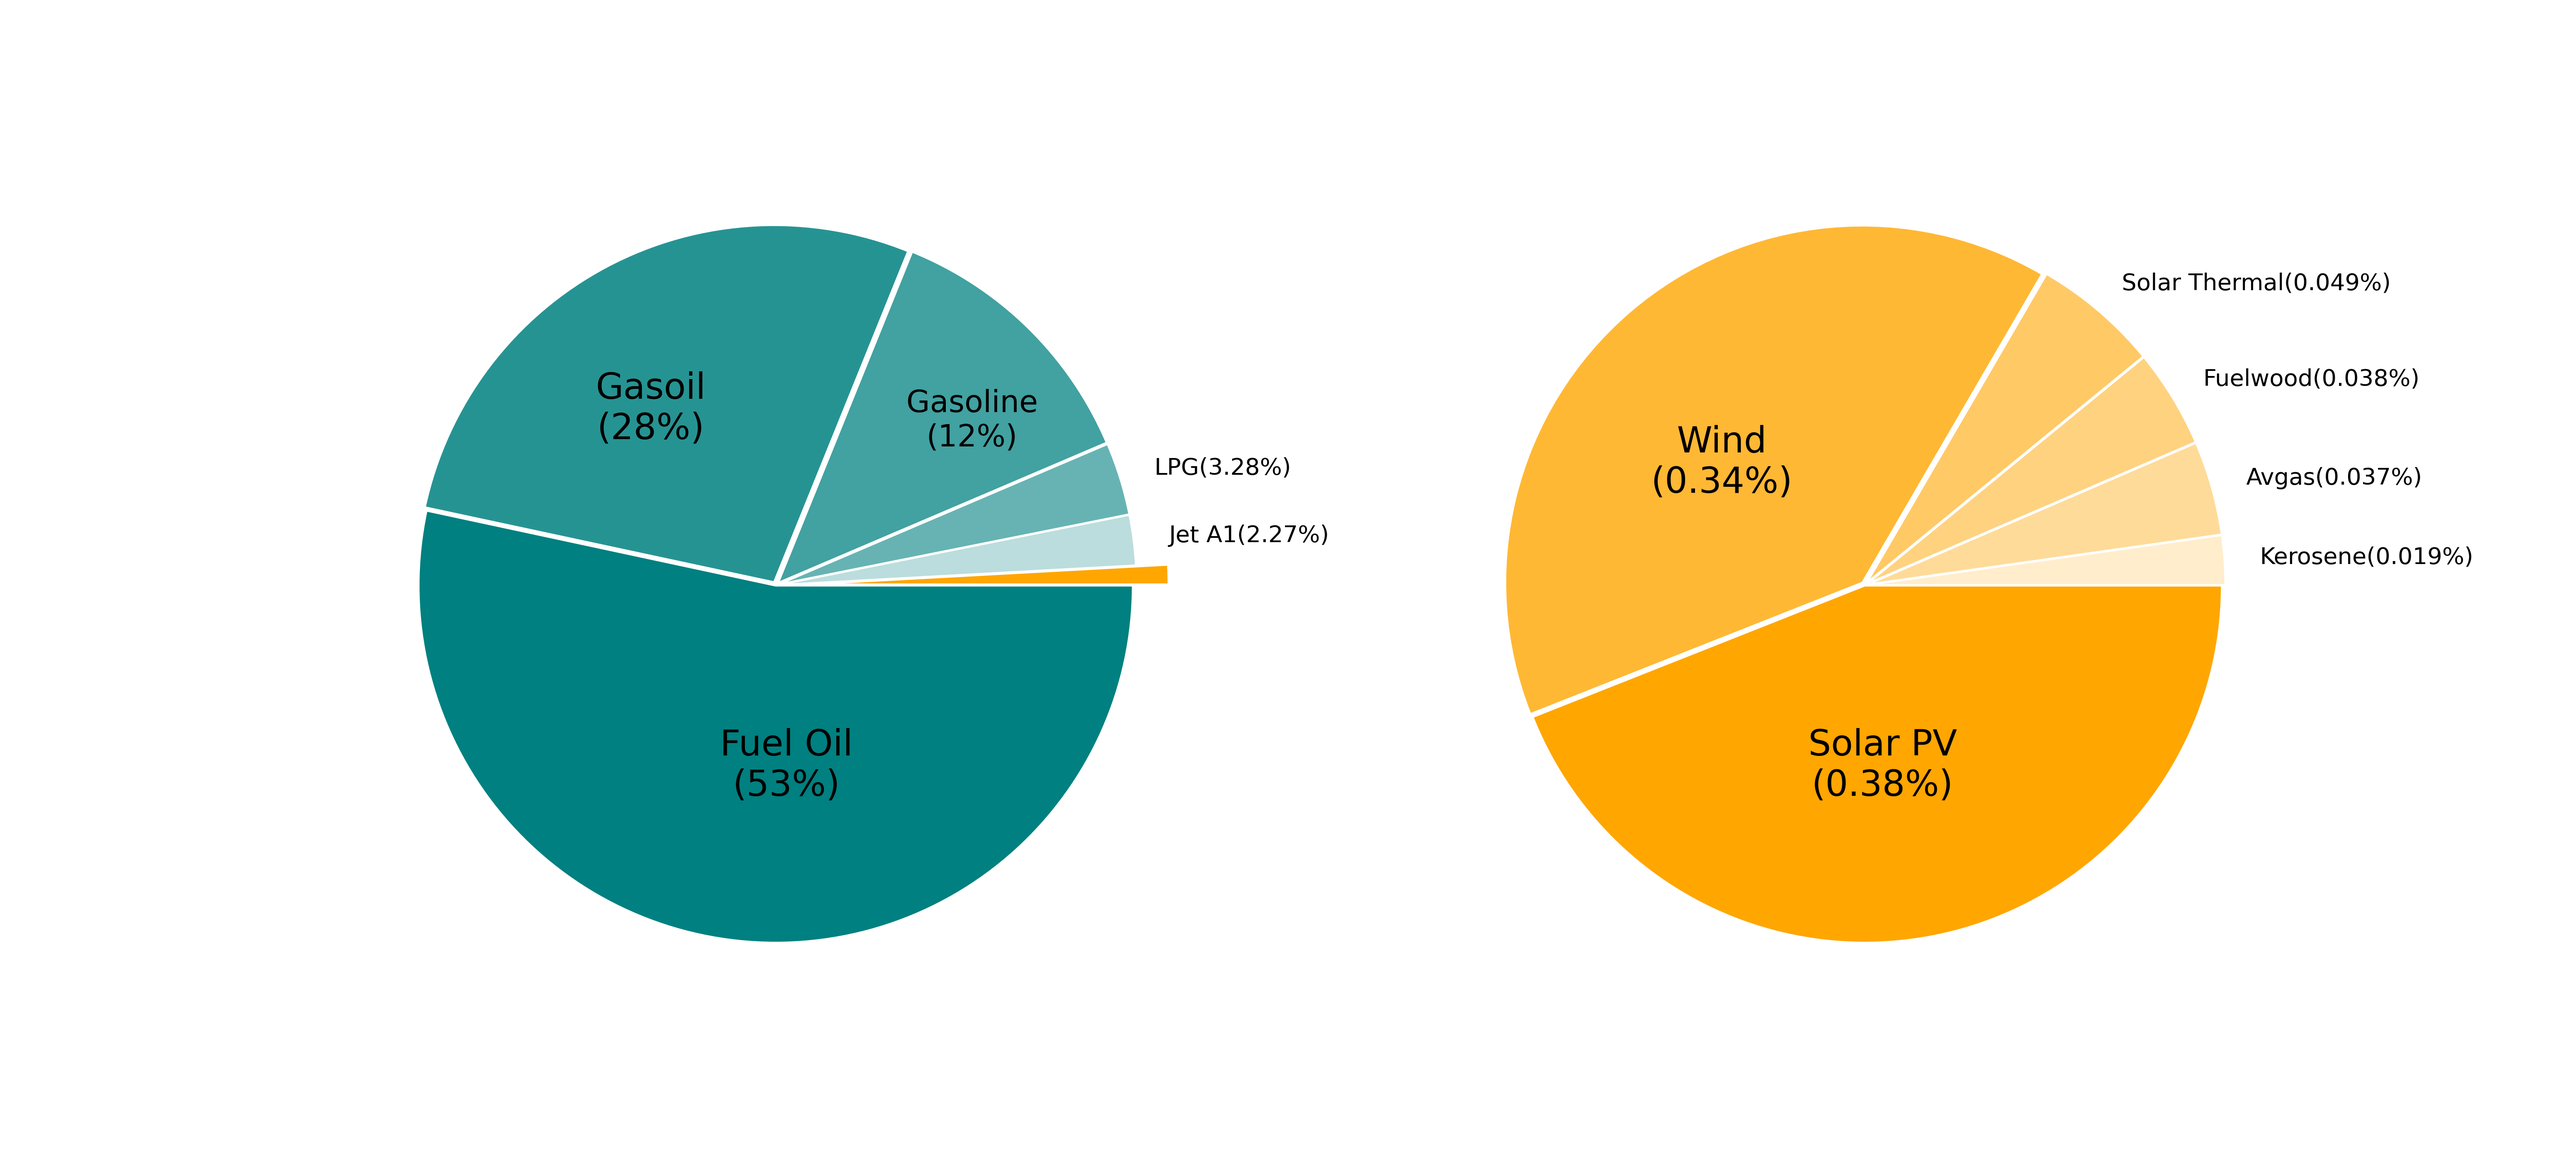
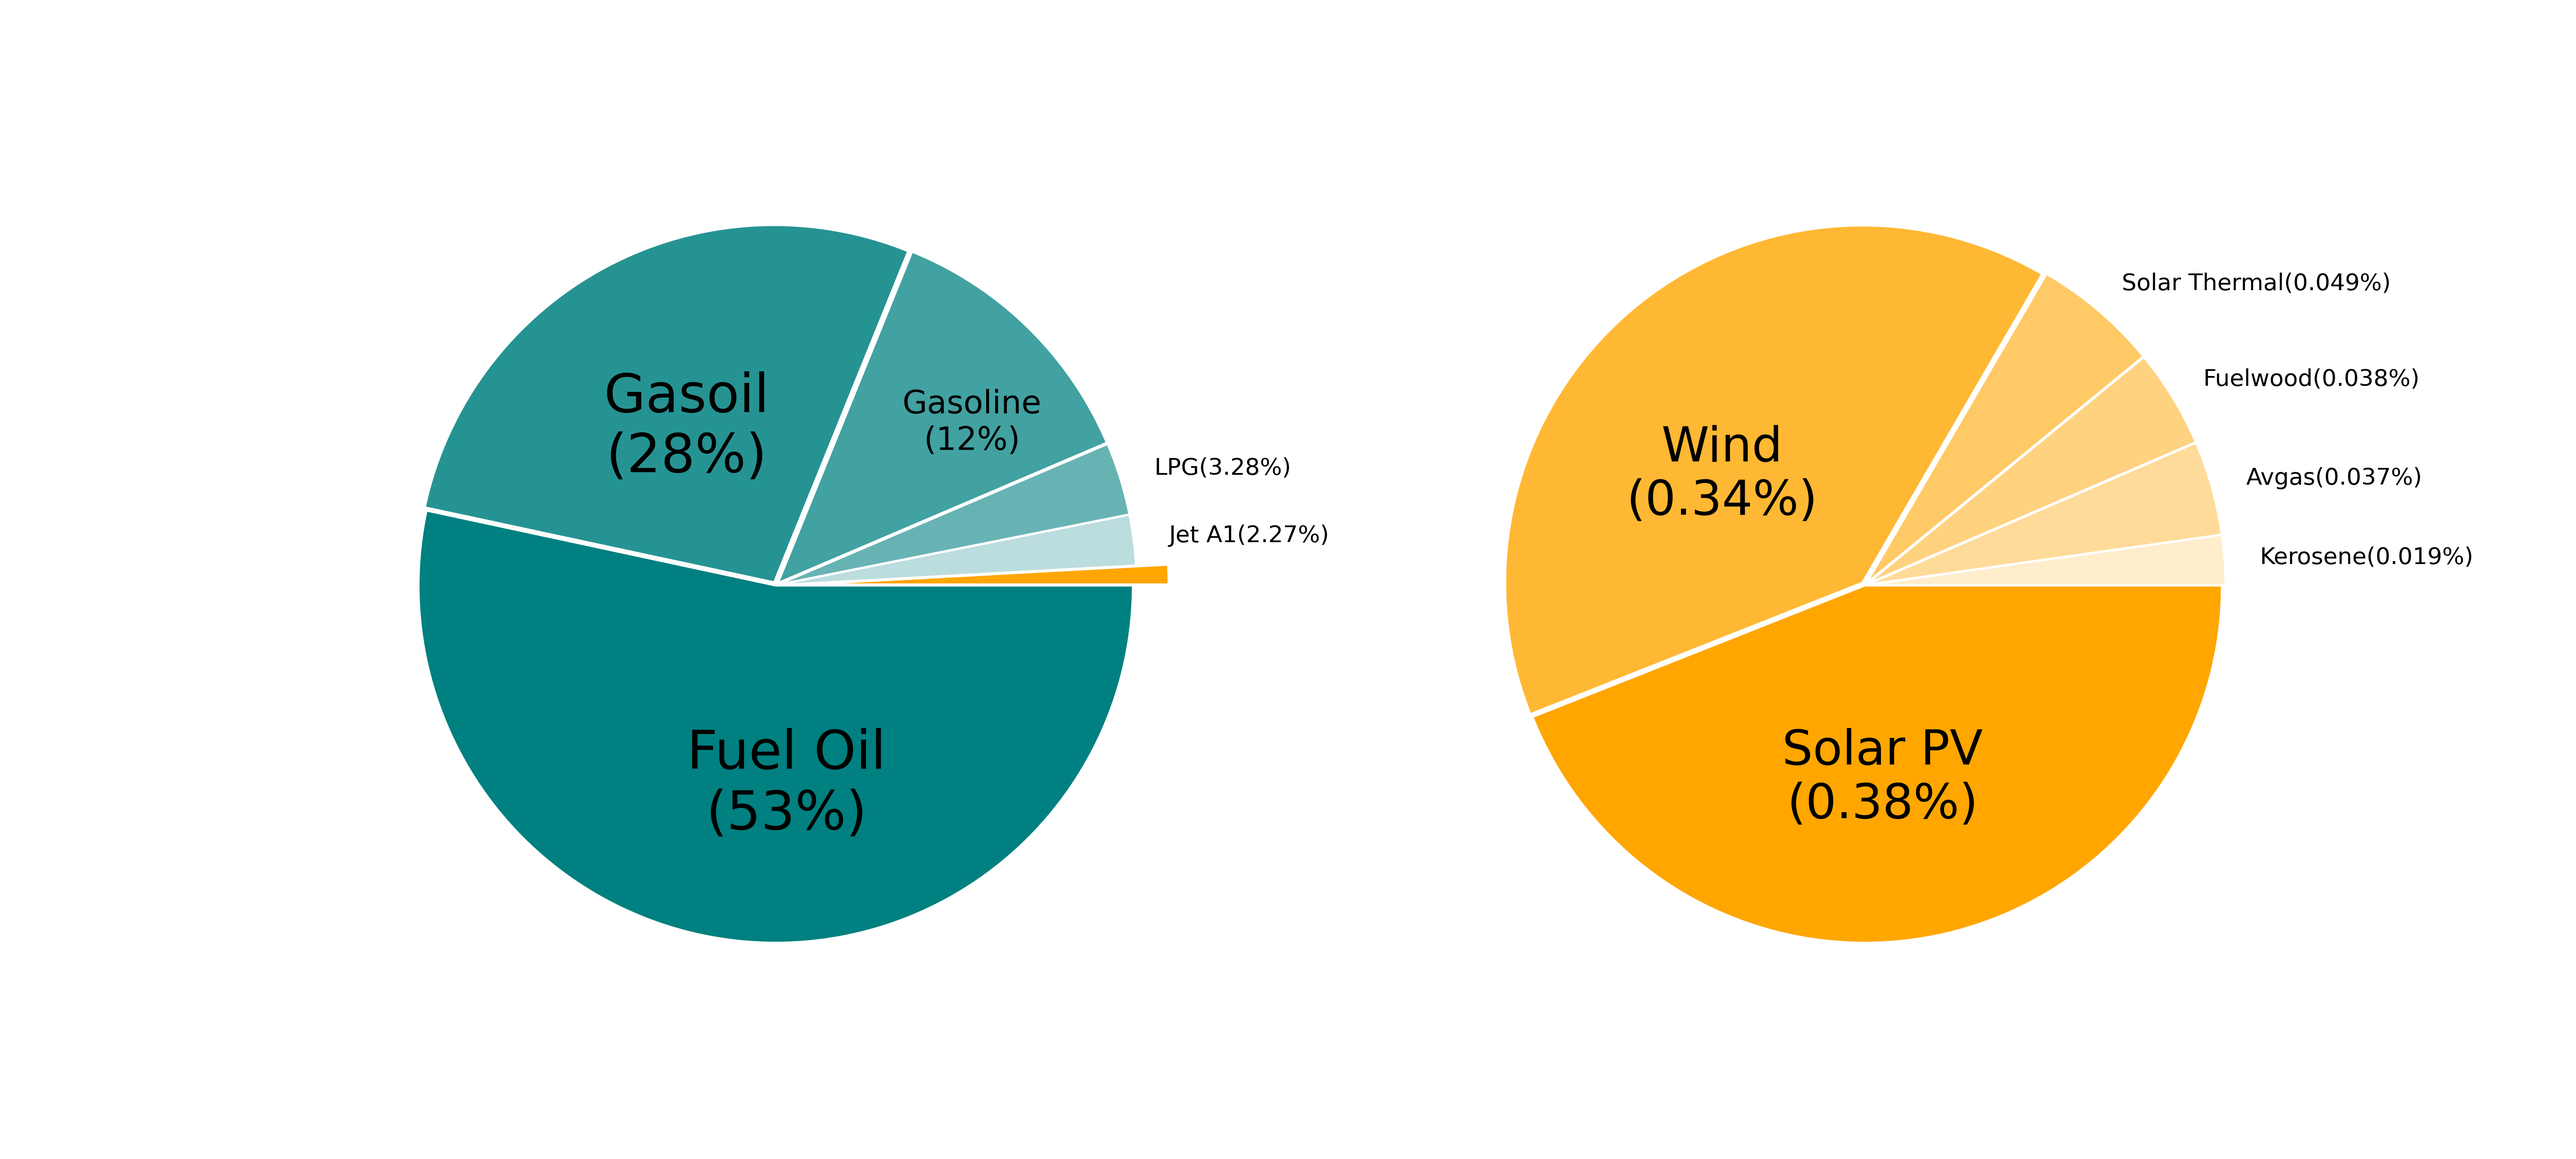
quiet modification of chart (looking)

diff --git a/Energy_Balance2019/PieChart/Code_exe_FEC.py b/Energy_Balance2019/PieChart/Code_exe_FEC.py
@@ -57,7 +57,7 @@ colors1 = ['#00b386', '#269393', '#42a1a1', '#67b3b3', '#bbdddd', '#ffffff', '#f
 explode1 = (0.001, 0.01, 0.01, 0.01, 0.01, 0.01, 0.1)
 label_dist1 = 1.1
 wedges1 = {'linewidth': 1, 'edgecolor': 'white'}
-text1 = {'fontsize': 13, 'color': 'black'}
+text1 = {'fontsize': 18, 'color': 'black'}
 
 # 2nd data pie chart [ Sorted DATA for obtain chart descending ]
 # data (2nd Chart)
@@ -86,12 +86,12 @@ subplot2 = chart_2.pie_chart(value_chart2, label_print_chart2, colors2, explode2
 
 # ------- Function Text ------- #
 
-print_text(-2.9, -0.4, str(energy_glob[0]) + "\n" + f"({str(round(share_percent[0]))}%)", 20, "black", "top", "center")
-print_text(-3.6, 0.25, str(energy_glob[1]) + "\n" + f"({str(round(share_percent[1]))}%)", 20, "black", "top", "center")
-print_text(-2.95, 0.7, str(energy_glob[2]) + "\n" + f"({str(round(share_percent[2]))}%)", 20, "black", "top", "center")
-print_text(0.1, -0.35, str(energy_glob[6]) + "\n" + f"({str(share_percent[6])}%)", 22, "black", "top", "center")
-print_text(-0.45, 0.4, str(energy_glob[7]) + "\n" + f"({str(share_percent[7])}%)", 20, "black", "top", "center")
-print_text(0.45, 0.6, str(energy_glob[8]) + "\n" + f"({str(share_percent[8])}%)", 20, "black", "top", "center")
+print_text(-2.9, -0.4, str(energy_glob[0]) + "\n" + f"({str(round(share_percent[0]))}%)", 26, "black", "top", "center")
+print_text(-3.6, 0.25, str(energy_glob[1]) + "\n" + f"({str(round(share_percent[1]))}%)", 24, "black", "top", "center")
+print_text(-2.95, 0.75, str(energy_glob[2]) + "\n" + f"({str(round(share_percent[2]))}%)", 26, "black", "top", "center")
+print_text(0.1, -0.35, str(energy_glob[6]) + "\n" + f"({str(share_percent[6])}%)", 30, "black", "top", "center")
+print_text(-0.45, 0.4, str(energy_glob[7]) + "\n" + f"({str(share_percent[7])}%)", 27, "black", "top", "center")
+print_text(0.45, 0.6, str(energy_glob[8]) + "\n" + f"({str(share_percent[8])}%)", 22, "black", "top", "center")
 
 # ------- Print Chart------- #
 

diff --git a/Energy_Balance2019/PieChart/Code_exe_PEC.py b/Energy_Balance2019/PieChart/Code_exe_PEC.py
@@ -42,7 +42,7 @@ colors1 = ['Teal', '#269393', '#42a1a1', '#67b3b3', '#bbdddd', '#ffa600']
 explode1 = (0.001, 0.01, 0.01, 0.01, 0.01, 0.1)
 label_dist1 = 1.1
 wedges1 = {'linewidth': 1, 'edgecolor': 'white'}
-text1 = {'fontsize': 13, 'color': 'black'}
+text1 = {'fontsize': 18, 'color': 'black'}
 
 # 2nd data pie chart [ Sorted DATA for obtain chart descending ]
 # Creating a new DataFrame sorted for print chart ascending
@@ -91,11 +91,11 @@ subplot2 = chart_2.pie_chart(value_chart2, label_print_chart2, colors2, explode2
 
 # ------- Function Text ------- #
 
-print_text(-3.02, -0.4, str(energy_glob[0]) + "\n" + f"({str(round(share_percent[0]))}%)", 20, "black", "top", "center")
-print_text(-3.4, 0.6, str(energy_glob[1]) + "\n" + f"({str(round(share_percent[1]))}%)", 20, "black", "top", "center")
-print_text(-2.5, 0.55, str(energy_glob[2]) + "\n" + f"({str(round(share_percent[2]))}%)", 17, "black", "top", "center")
-print_text(-0.4, 0.45, str(energy_glob[5]) + "\n" + f"({str(share_percent[5])}%)", 20, "black", "top", "center")
-print_text(0.05, -0.4, str(energy_glob[6]) + "\n" + f"({str(share_percent[6])}%)", 20, "black", "top", "center")
+print_text(-3.02, -0.4, str(energy_glob[0]) + "\n" + f"({str(round(share_percent[0]))}%)", 30, "black", "top", "center")
+print_text(-3.4, 0.6, str(energy_glob[1]) + "\n" + f"({str(round(share_percent[1]))}%)", 30, "black", "top", "center")
+print_text(-2.5, 0.55, str(energy_glob[2]) + "\n" + f"({str(round(share_percent[2]))}%)", 20, "black", "top", "center")
+print_text(-0.4, 0.6, str(energy_glob[5]) + "\n" + f"({str(share_percent[5])}%)", 30, "black", "top", "center")
+print_text(0.05, -0.4, str(energy_glob[6]) + "\n" + f"({str(share_percent[6])}%)", 30, "black", "top", "center")
 
 # ------- Print Chart------- #
 

diff --git a/Energy_Balance2019/BarChart/Bar_ Chart_Sectorial_Consumption.py b/Energy_Balance2019/BarChart/Bar_ Chart_Sectorial_Consumption.py
@@ -57,7 +57,7 @@ def dataframe_transportation(df: DataFrame):
 
 def funct_barh(title, share, colors):
     # --------- Figure --------- #
-    fig = plt.figure(figsize=(20, 4))
+    fig = plt.figure(figsize=(12, 4))
     ax = fig.add_subplot(111)
 
     # ----------- Chart ----------- #
@@ -69,7 +69,7 @@ def funct_barh(title, share, colors):
 
     ax.xaxis.set_visible(False)
     ax.xaxis.set_ticks_position('top')
-    ax.tick_params(labelsize=15, length=0)
+    ax.tick_params(labelsize=20, length=0)
 
     ax.xaxis.set_tick_params(pad=5)
     ax.yaxis.set_tick_params(pad=10)
@@ -80,12 +80,12 @@ def funct_barh(title, share, colors):
 
     ax.invert_yaxis()
     for a in ax.patches[:-1]:
-        plt.text(a.get_width() - 3, a.get_y() + 0.46,
+        plt.text(a.get_width() - 4, a.get_y() + 0.46,
                  s=str(round((a.get_width()), 2)) + '%',
                  fontsize=15, fontweight='bold',
                  color='black')
     for a in ax.patches[4:5]:
-        plt.text(a.get_width() - 2.1, a.get_y() + 0.46,
+        plt.text(a.get_width(), a.get_y() + 0.46,
                  s=str(round((a.get_width()), 2)) + '%',
                  fontsize=15, fontweight='bold',
                  color='black')
@@ -99,7 +99,7 @@ def chart(value, index, color=None):
             pctdistance=0.85,
             autopct='%2.0f%%', shadow=False, startangle=-0, counterclock=False, frame=False,
             wedgeprops={'linewidth': 2, 'edgecolor': 'white'},
-            textprops={'fontsize': 27, 'color': 'black'}
+            textprops={'fontsize': 27, 'color': 'white'}
             # center=(1.2,1.2)
             )
     circle = plt.Circle((0, 0), 0.7, color='white')

diff --git a/Energy_Balance2020/BarChart/Bar_ Chart_Sectorial_Consumption.py b/Energy_Balance2020/BarChart/Bar_ Chart_Sectorial_Consumption.py
@@ -57,7 +57,7 @@ def dataframe_transportation(df: DataFrame):
 
 def funct_barh(title, share, colors):
     # --------- Figure --------- #
-    fig = plt.figure(figsize=(20, 4))
+    fig = plt.figure(figsize=(12, 4))
     ax = fig.add_subplot(111)
 
     # ----------- Chart ----------- #
@@ -69,7 +69,7 @@ def funct_barh(title, share, colors):
 
     ax.xaxis.set_visible(False)
     ax.xaxis.set_ticks_position('top')
-    ax.tick_params(labelsize=15, length=0)
+    ax.tick_params(labelsize=20, length=0)
 
     ax.xaxis.set_tick_params(pad=5)
     ax.yaxis.set_tick_params(pad=10)
@@ -80,12 +80,12 @@ def funct_barh(title, share, colors):
 
     ax.invert_yaxis()
     for a in ax.patches[:-1]:
-        plt.text(a.get_width() - 3, a.get_y() + 0.46,
+        plt.text(a.get_width() - 4, a.get_y() + 0.46,
                  s=str(round((a.get_width()), 2)) + '%',
                  fontsize=15, fontweight='bold',
                  color='black')
     for a in ax.patches[4:5]:
-        plt.text(a.get_width() - 2.1, a.get_y() + 0.46,
+        plt.text(a.get_width(), a.get_y() + 0.46,
                  s=str(round((a.get_width()), 2)) + '%',
                  fontsize=15, fontweight='bold',
                  color='black')
@@ -99,7 +99,7 @@ def chart(value, index, color=None):
             pctdistance=0.85,
             autopct='%2.0f%%', shadow=False, startangle=-0, counterclock=False, frame=False,
             wedgeprops={'linewidth': 2, 'edgecolor': 'white'},
-            textprops={'fontsize': 27, 'color': 'black'}
+            textprops={'fontsize': 27, 'color': 'white'}
             # center=(1.2,1.2)
             )
     circle = plt.Circle((0, 0), 0.7, color='white')

diff --git a/Energy_Balance2020/PieChart/Code_exe_FEC.py b/Energy_Balance2020/PieChart/Code_exe_FEC.py
@@ -81,12 +81,12 @@ subplot2 = chart_2.pie_chart(value_chart2, label_print_chart2, colors2, explode2
 
 # ------- Function Text ------- #
 
-print_text(-2.9, -0.4, str(energy_glob[0]) + "\n" + f"({str(round(share_percent[0]))}%)", 20, "black", "top", "center")
-print_text(-3.6, 0.25, str(energy_glob[1]) + "\n" + f"({str(round(share_percent[1]))}%)", 20, "black", "top", "center")
-print_text(-2.95, 0.7, str(energy_glob[2]) + "\n" + f"({str(round(share_percent[2]))}%)", 20, "black", "top", "center")
-print_text(0.2, -0.35, str(energy_glob[6]) + "\n" + f"({str(share_percent[6])}%)", 22, "black", "top", "center")
-print_text(-0.55, 0.2, str(energy_glob[7]) + "\n" + f"({str(share_percent[7])}%)", 20, "black", "top", "center")
-print_text(0.1, 0.65, str(energy_glob[8]) + "\n" + f"({str(share_percent[8])}%)", 20, "black", "top", "center")
+print_text(-2.9, -0.4, str(energy_glob[0]) + "\n" + f"({str(round(share_percent[0]))}%)", 27, "black", "top", "center")
+print_text(-3.6, 0.25, str(energy_glob[1]) + "\n" + f"({str(round(share_percent[1]))}%)", 25, "black", "top", "center")
+print_text(-2.95, 0.7, str(energy_glob[2]) + "\n" + f"({str(round(share_percent[2]))}%)", 27, "black", "top", "center")
+print_text(0.22, -0.35, str(energy_glob[6]) + "\n" + f"({str(share_percent[6])}%)", 27, "black", "top", "center")
+print_text(-0.55, 0.2, str(energy_glob[7]) + "\n" + f"({str(share_percent[7])}%)", 25, "black", "top", "center")
+print_text(0.1, 0.65, str(energy_glob[8]) + "\n" + f"({str(share_percent[8])}%)", 25, "black", "top", "center")
 
 # ------- Print Chart------- #
 

diff --git a/Energy_Balance2020/PieChart/Code_exe_PEC.py b/Energy_Balance2020/PieChart/Code_exe_PEC.py
@@ -91,11 +91,11 @@ subplot2 = chart_2.pie_chart(value_chart2, label_print_chart2, colors2, explode2
 
 # ------- Function Text ------- #
 
-print_text(-3.02, -0.4, str(energy_glob[0]) + "\n" + f"({str(round(share_percent[0]))}%)", 20, "black", "top", "center")
-print_text(-3.4, 0.6, str(energy_glob[1]) + "\n" + f"({str(round(share_percent[1]))}%)", 20, "black", "top", "center")
-print_text(-2.5, 0.55, str(energy_glob[2]) + "\n" + f"({str(round(share_percent[2]))}%)", 17, "black", "top", "center")
-print_text(-0.4, 0.45, str(energy_glob[5]) + "\n" + f"({str(share_percent[5])}%)", 20, "black", "top", "center")
-print_text(0.05, -0.4, str(energy_glob[6]) + "\n" + f"({str(share_percent[6])}%)", 20, "black", "top", "center")
+print_text(-3.02, -0.4, str(energy_glob[0]) + "\n" + f"({str(round(share_percent[0]))}%)", 30, "black", "top", "center")
+print_text(-3.3, 0.6, str(energy_glob[1]) + "\n" + f"({str(round(share_percent[1]))}%)", 30, "black", "top", "center")
+print_text(-2.5, 0.55, str(energy_glob[2]) + "\n" + f"({str(round(share_percent[2]))}%)", 18, "black", "top", "center")
+print_text(-0.4, 0.45, str(energy_glob[5]) + "\n" + f"({str(share_percent[5])}%)", 27, "black", "top", "center")
+print_text(0.05, -0.4, str(energy_glob[6]) + "\n" + f"({str(share_percent[6])}%)", 27, "black", "top", "center")
 
 # ------- Print Chart------- #
 
